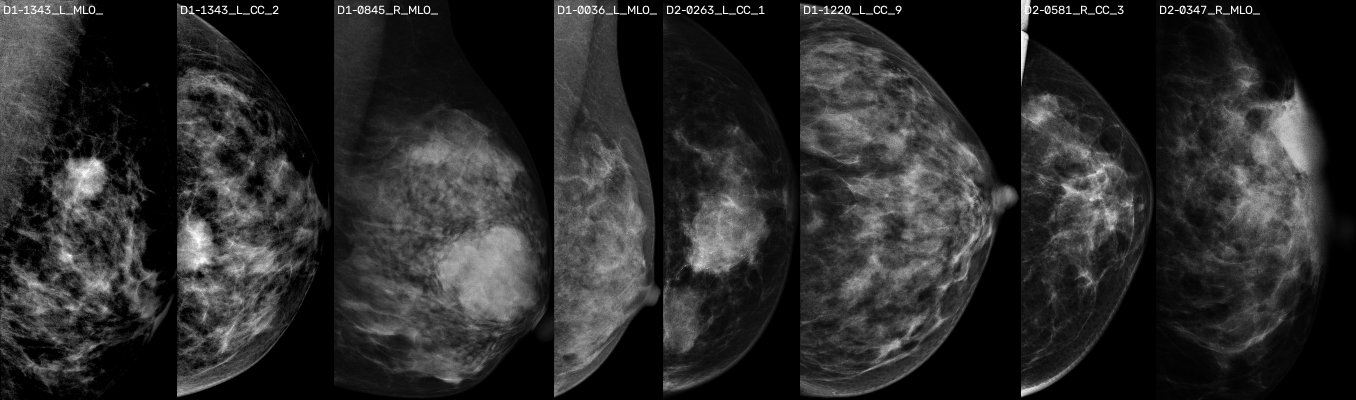
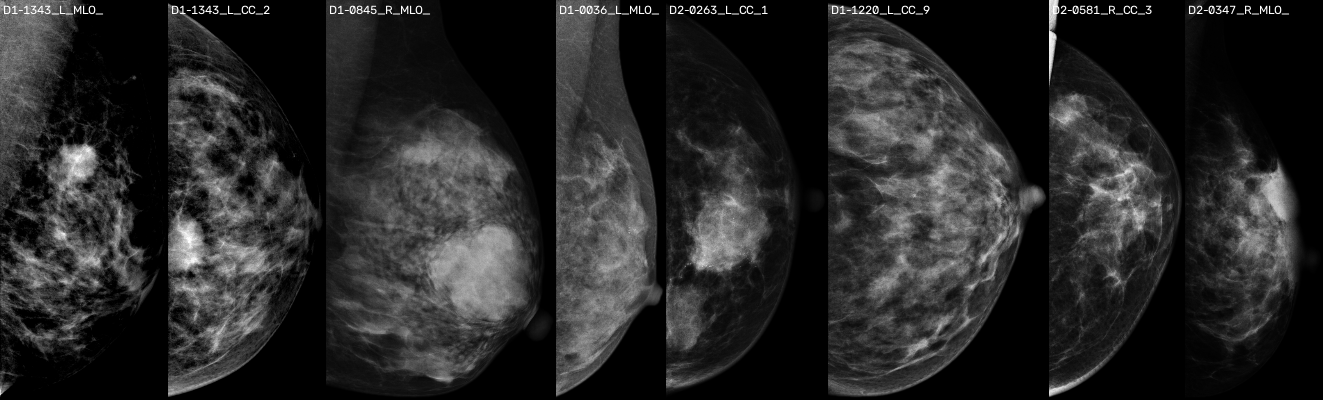
Task 02 follow-up: crop on any non-black pixel, original-vs-PNG check script

diff --git a/scripts/02c_compare_original.py b/scripts/02c_compare_original.py
@@ -1,0 +1,92 @@
+"""Task 02 (part c): show chosen images uncropped next to their PNG, to check the crop and the flip by eye.
+
+For each image the picture has three panels:
+  1. the original DICOM, untouched, with the crop box drawn on it
+  2. the same original brightened 8x, so very faint tissue or skin near the edge becomes visible
+  3. the PNG that was saved (cropped, maybe mirrored)
+It also prints a few numbers per image (crop box, what lies outside it, very bright patches).
+
+Usage:
+    python scripts/02c_compare_original.py --config config.yaml --images D1-1343_L_MLO D2-0347_R_MLO
+"""
+import argparse, importlib, sys
+from pathlib import Path
+
+import cv2
+import numpy as np
+import pandas as pd
+import pydicom
+
+sys.path.insert(0, str(Path(__file__).resolve().parent.parent))
+sys.path.insert(0, str(Path(__file__).resolve().parent))
+from src.config import load_config
+
+convert = importlib.import_module("02_convert")  # reuse the exact pixel code of the conversion
+
+PANEL_H = 700  # height of every panel in the picture
+
+
+def panel(img, title):
+    """Resize to PANEL_H tall and write a title in the top-left corner."""
+    img = cv2.resize(img, (round(img.shape[1] * PANEL_H / img.shape[0]), PANEL_H), interpolation=cv2.INTER_AREA)
+    cv2.putText(img, title, (6, 22), cv2.FONT_HERSHEY_SIMPLEX, 0.6, 255, 2)
+    return img
+
+
+def main():
+    ap = argparse.ArgumentParser()
+    ap.add_argument("--config", default="config.yaml")
+    ap.add_argument("--images", nargs="+", required=True, help="like D1-1343_L_MLO (patient_side_view)")
+    ap.add_argument("--out", default="reports/02_qc_original_vs_png.png")
+    args = ap.parse_args()
+    cfg = load_config(args.config)
+    idx = pd.read_csv(cfg["index_dir"] / "png_index.csv")
+    idx["key"] = idx["patient_id"] + "_" + idx["side"] + "_" + idx["view"]
+
+    rows_of_panels = []
+    for key in args.images:
+        r = idx[idx["key"] == key].iloc[0]
+        orig = convert.dicom_to_uint8(pydicom.dcmread(r["path"]))
+        png = cv2.imread(str(cfg["png_dir"] / r["png"]), cv2.IMREAD_GRAYSCALE)
+        H, W = orig.shape
+        x0, y0, x1, y1 = int(r["crop_x0"]), int(r["crop_y0"]), int(r["crop_x1"]), int(r["crop_y1"])
+
+        # ---- numbers
+        outside = np.ones_like(orig, bool)
+        outside[y0:y1, x0:x1] = False  # True for pixels the crop threw away
+        cols_with_tissue = np.where((orig > 0).any(axis=0))[0]
+        print(f"\n{key}  (bits_stored {r['bits_stored']}, side tag {r['side']}, flipped {r['flipped']})")
+        print(f"  original {W} wide x {H} tall | crop box x {x0}-{x1}, y {y0}-{y1}")
+        print(f"  columns that contain any non-black pixel: {cols_with_tissue.min()} to {cols_with_tissue.max()}")
+        print(f"  pixels thrown away by the crop: {outside.sum()} | of these non-black: {(orig[outside] > 0).sum()}"
+              f" | brighter than 10: {(orig[outside] > 10).sum()} | brightest: {orig[outside].max()}")
+        for name, strip in [("left", orig[:, :5]), ("right", orig[:, -5:]), ("top", orig[:5]), ("bottom", orig[-5:])]:
+            print(f"  outermost 5 px on the {name}: {(strip > 10).mean():.0%} is tissue (brighter than 10)")
+        left, right = (orig[:, : W // 2] > 10).sum(), (orig[:, W // 2:] > 10).sum()
+        print(f"  tissue pixels in left half {left}, right half {right} -> breast is on the "
+              f"{'left' if left >= right else 'right'} of the original")
+        # very bright patches (markers, labels, skin folds): position in ORIGINAL pixel coordinates
+        n, _, stats, _ = cv2.connectedComponentsWithStats((orig >= 250).astype(np.uint8), connectivity=8)
+        big = sorted([s for s in stats[1:] if s[cv2.CC_STAT_AREA] >= 500], key=lambda s: -s[cv2.CC_STAT_AREA])[:3]
+        print(f"  share of pixels at 250-255: {(orig >= 250).mean():.2%} | saturated patches of 500+ px: {len(big)}")
+        for s in big:
+            print(f"    patch x {s[0]}-{s[0] + s[2]}, y {s[1]}-{s[1] + s[3]}, area {s[4]} px")
+
+        # ---- picture
+        boxed = orig.copy()
+        cv2.rectangle(boxed, (x0, y0), (x1 - 1, y1 - 1), 255, 6)
+        bright = np.clip(orig.astype(np.int32) * 8, 0, 255).astype(np.uint8)
+        cv2.rectangle(bright, (x0, y0), (x1 - 1, y1 - 1), 255, 6)
+        gap = np.zeros((PANEL_H, 12), np.uint8)
+        rows_of_panels.append(np.hstack([panel(boxed, f"{key} original + crop box"), gap,
+                                         panel(bright, "original x8 brighter"), gap,
+                                         panel(png, "saved PNG")]))
+
+    width = max(p.shape[1] for p in rows_of_panels)
+    rows_of_panels = [np.pad(p, ((0, 12), (0, width - p.shape[1]))) for p in rows_of_panels]
+    cv2.imwrite(args.out, np.vstack(rows_of_panels))
+    print(f"\nSaved {args.out}")
+
+
+if __name__ == "__main__":
+    main()

diff --git a/scripts/02_convert.py b/scripts/02_convert.py
@@ -42,14 +42,16 @@ def dicom_to_uint8(ds):
     return img
 
 
-def breast_box(img, margin=10, threshold=10):
+def breast_box(img, margin=10, threshold=0):
     """Find the breast = the largest region that is not black background.
 
     Returns the bounding box (x0, y0, x1, y1) and whether the breast sits in the left half of the image.
 
-    The CMMD background is exactly 0, so a fixed low threshold separates breast from background. (An automatic
-    Otsu threshold was tried first: it landed around 43, inside the breast, and cut off fatty tissue and skin
-    on about 40% of images.) Taking the largest connected region drops small text labels and markers.
+    The CMMD background is exactly 0, so "any pixel above 0" separates breast from background. Two higher
+    thresholds were tried first and rejected: an automatic Otsu threshold landed around 43, inside the breast,
+    and cut off fatty tissue and skin on about 40% of images; a fixed threshold of 10 still cut off faint
+    upper-breast tissue on about 500 images. Taking the largest connected region drops text labels and markers
+    that do not touch the breast.
     """
     blur = cv2.GaussianBlur(img, (5, 5), 0)
     mask = (blur > threshold).astype(np.uint8)
@@ -84,6 +86,9 @@ def convert_one(rec, out_dir, height, flip_to_left):
         img = dicom_to_uint8(ds)
         (x0, y0, x1, y1), on_left = breast_box(img)
         crop = img[y0:y1, x0:x1]
+        # QC number: what share of the non-black pixels did the crop leave out? (0 = nothing lost)
+        nonblack = int((img > 0).sum())
+        outside_share = (nonblack - int((crop > 0).sum())) / max(nonblack, 1)
         # orientation comes from the pixels (which half of the full image holds the breast), not from the
         # side tag, so a wrong tag can never produce a wrongly mirrored image
         flipped = bool(flip_to_left and not on_left)
@@ -95,7 +100,8 @@ def convert_one(rec, out_dir, height, flip_to_left):
             small = cv2.resize(np.ascontiguousarray(crop), (width, height), interpolation=cv2.INTER_AREA)
             cv2.imwrite(str(out), small)
         info.update(orig_h=img.shape[0], orig_w=img.shape[1], crop_x0=x0, crop_y0=y0, crop_x1=x1,
-                    crop_y1=y1, flipped=flipped, scale=scale, png_h=height, png_w=width, error=None)
+                    crop_y1=y1, flipped=flipped, scale=scale, png_h=height, png_w=width,
+                    outside_share=round(outside_share, 4), error=None)
     except Exception as e:
         info["error"] = repr(e)
     return info

diff --git a/scripts/02b_convert_checks.py b/scripts/02b_convert_checks.py
@@ -57,6 +57,16 @@ def main():
     print(f"suspiciously small crops (width < 15% or height < 30%): {len(tiny)}")
     if len(tiny):
         print("  ", tiny["png"].head(10).tolist())
+    # how much non-black content (tissue, but also labels and markers) each crop left out
+    lost = df["outside_share"]
+    print(f"non-black pixels left outside the crop: median {lost.median():.4f}, 99th pct {lost.quantile(0.99):.3f}, "
+          f"max {lost.max():.3f} | images losing > 1%: {(lost > 0.01).sum()} | > 5%: {(lost > 0.05).sum()}")
+    worst = df.nlargest(6, "outside_share")
+    print("   most left out:", (worst["patient_id"] + "_" + worst["side"] + "_" + worst["view"]).tolist(),
+          worst["outside_share"].tolist())
+    widest = df.assign(w=crop_w).nlargest(3, "w")
+    print("   widest crops:", (widest["patient_id"] + "_" + widest["side"] + "_" + widest["view"]).tolist(),
+          widest["w"].round(2).tolist())
     print(f"PNG size: height {df['png_h'].min()}-{df['png_h'].max()}, width {df['png_w'].min()}-{df['png_w'].max()}"
           f" (median {df['png_w'].median():.0f})")
 

diff --git a/PROGRESS.md b/PROGRESS.md
@@ -106,3 +106,40 @@ Format:
   - Far faster and smaller than the plan expected (1.7 min and 0.92 GB, not 20–60 min and 2–3 GB), because
     the DICOMs are 8-bit and the crops are narrow.
 - Next: [ANU] look at `reports/02_qc_montage.png` and `reports/02_qc_16bit.png`. Then Task 03 (TOMPEI masks).
+
+## 2026-10-07 — Task 02 follow-up: two-image check, crop threshold lowered (supersedes the Task 02 numbers)
+- Why: Anu looked at the QC pictures and asked for two images to be checked uncropped next to their PNG.
+- Done: wrote `scripts/02c_compare_original.py` (original with crop box | original 8× brighter | saved PNG, plus
+  numbers) → `reports/02_qc_original_vs_png.png`. Findings:
+  - D1-1343 L MLO: not cut off sideways. The skin line sits at the crop edge; it is invisible at normal
+    brightness because this 16-bit file has near-black fatty tissue. The breast is in the left half, not flipped.
+  - D2-0347 R MLO: not mirrored wrongly. In the original the breast is in the right half with the chest wall on
+    the right edge, so flipping it is correct. The bright patch is on the skin side in the original pixels too
+    (soft-edged, not saturated: 0% of pixels at 250–255), so it is something on the skin, not a burned-in label
+    and not a conversion artefact.
+  - Real problem found on D2-0347: the crop started at y = 598 and cut off the faint upper breast (27,586 pixels
+    brighter than 10 and 202,091 non-black pixels were outside the box).
+- Fix: the breast threshold went from "pixel > 10" to "pixel > 0" (any non-black pixel). Measured on all 5,202
+  images before changing: with > 10, 529 images lost more than 1% of their non-black pixels and 81 lost more
+  than 5%; with > 0 that is 142 and 11. PNGs deleted and reconverted (third and final run). `png_index.csv` has
+  a new column `outside_share` = share of non-black pixels left outside the crop.
+- Numbers (final, these replace the Task 02 numbers above):
+  - 5,202 converted, 0 failed, 5,202 PNGs on disk, 1.7 min, `data/png1024` = 0.90 GB.
+  - PNGs 1024 px tall, width 203–818 (median 400).
+  - Crop as a share of the original: width min 0.16 / median 0.41 / max 0.93; height min 0.45 / median 0.91 /
+    max 1.00.
+  - Flipped 2,519 / not flipped 2,683; the same 15 images (9 patients) disagree with the side tag.
+  - `outside_share`: median 0.0000, 99th percentile 0.021, max 0.240.
+  - After the fix: D2-0347 R MLO crop is y 0–2271 with 0 non-black pixels outside; D1-1343 L MLO crop is
+    x 0–801, y 0–1901 with 5,890 non-black pixels outside (a thin strip below the breast at the image edge).
+  - 16-bit brightness check unchanged: 58 and 65 against a median of 62.
+- Outliers looked at (`reports/02_qc_crop_outliers.png`, the 3 images with the highest `outside_share` and the
+  2 widest crops):
+  - D1-0059 R CC (0.167) and D2-0654 R CC (0.147): what is left out is a separate bright object at the image
+    edge that is not the breast. Dropping it is what we want.
+  - D1-0951 R MLO (0.240): an odd source image with black holes inside the tissue; the upper strip (pectoral
+    area) is disconnected from the breast and is left out. Not fixable by a threshold. Flagged, kept.
+  - D2-0607 R MLO and D2-0440 L MLO (widest crops, 0.89 and 0.93 of the width): the source images really do
+    contain that much non-black content connected to the breast (chest/abdomen, a band along the top). Kept.
+  - Not checked by eye: the other 139 images with `outside_share` > 1%.
+- Next: Task 03 (TOMPEI masks).

diff --git a/tasks/02_convert.md b/tasks/02_convert.md
@@ -8,7 +8,7 @@ This is the only time the 21 GB of DICOMs are read. Output is ~2–3 GB.
 1. Read pixels with pydicom. Invert if `MONOCHROME1` (none are).
 2. 8-bit files (5,200 of 5,202): keep the pixel values exactly as stored, no windowing, no stretch.
    16-bit files (2, patient D1-1343): divide the full 0–65535 range down to 0–255.
-3. Find the breast: pixels above a fixed low threshold (> 10; the background is exactly 0) → largest connected
+3. Find the breast: every non-black pixel (> 0; the background is exactly 0) → largest connected
    component → bounding box (+ small margin). This removes the black background and labels/markers.
 4. Mirror images whose breast sits in the right half (`flip_to_left: true`) so all breasts face the same way.
    Decided from the pixels, not from the side tag.
